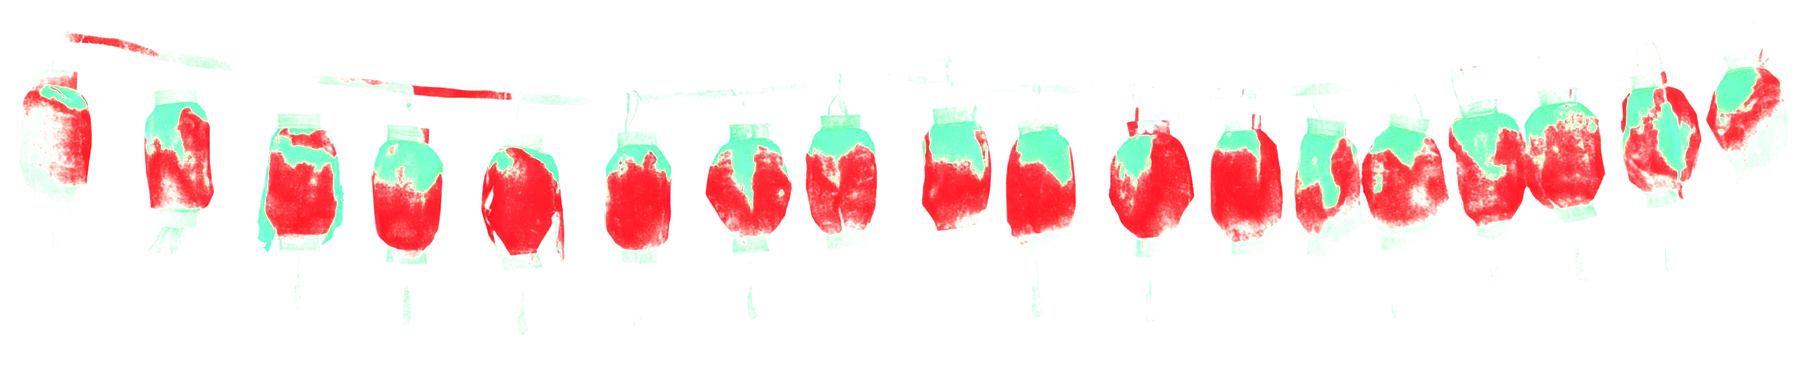
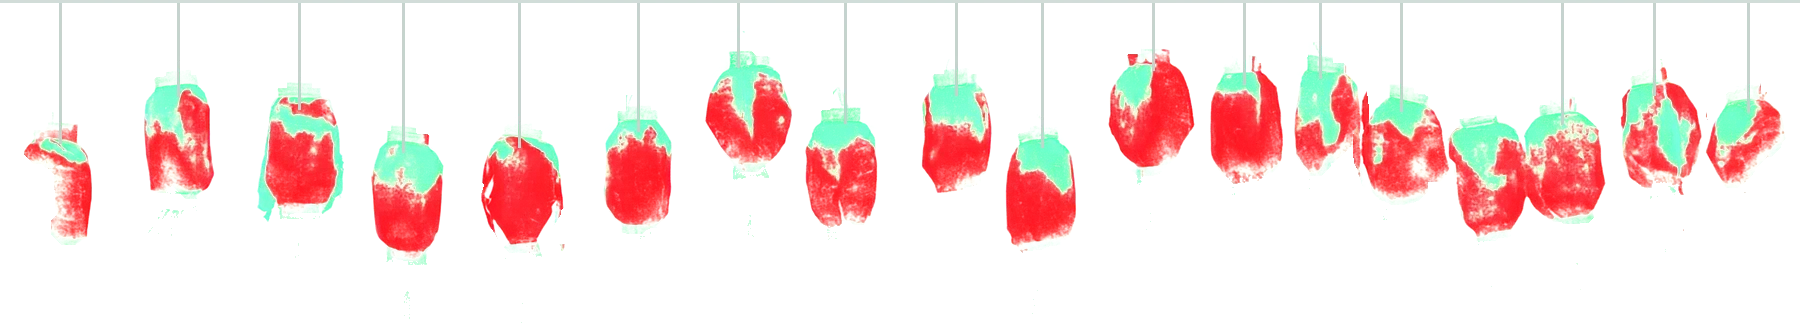
第四轮：时间到弹窗与封锁、大屏背景统一、默认深色、手机大屏简化、无常面具连线、灯笼重做挂线
Claude-Session: https://claude.ai/code/session_01J2BCPxYtnCxc7S6bwFav1H

diff --git a/web/public/app.js b/web/public/app.js
@@ -3,7 +3,7 @@
 // for the signed-in role, and sends actions. Rule helpers come from rules.js (same file the server runs).
 import * as R from './rules.js';
 const {size,ROOMS,SUITS,RATE,PER_TEAM,MIN_STAY,COIN_GOAL,FINAL_SCORE,FINAL_MSG,QUESTS,GATES,FEATURES,team,room,alive,inMarket,fmt,protectedLeft,esc,matches,targetLabel,
-  isFirst,indiv,lab,cands,whyNotEnter,gapOf,teamStatus,teamOf,no,rstate,rsvLeft,rsvOf,whyNotReserve,finalMiss,scavInfo,scavWhy,SCAV_CAP,SCAV_N,SCAV_WIN,SCAV_PTS,GAME_HINT,RESET_HINT,RSV,COIN_START}=R;
+  isFirst,indiv,lab,cands,whyNotEnter,gapOf,teamStatus,teamOf,no,rstate,timeUp,rsvLeft,rsvOf,whyNotReserve,finalMiss,scavInfo,scavWhy,SCAV_CAP,SCAV_N,SCAV_WIN,SCAV_PTS,GAME_HINT,RESET_HINT,RSV,COIN_START}=R;
 
 let S=null, ME=null, CLOCK=null, OFFSET=0;
 // Developer mode: DEVME is the real (read-only) sign-in, FULL the full state; ME/S are swapped to the chosen viewpoint.
@@ -372,7 +372,7 @@ function viewWuchang(){
     +(wait.length?'<div class="mlist">'+wait.map(p=>'<div class="mrow">'+meta(p)+'<button class="btn-main glow" data-a="pickup" data-p="'+p.id+'">接到了</button></div>').join('')+'</div>':'<div class="empty">现在没有人需要接。</div>')+'</section>';
   const right='<section class="mcol"><div class="shrow"><h2 class="sh">送入鬼市 / 确认</h2><span class="hint">已接到的人送去鬼市；孟婆已登记的人在这里确认</span></div>'
     +(go.length?'<div class="mlist">'+go.map(p=>'<div class="mrow ok">'+meta(p)+(p.chk&&!p.chk.ok?chkBit(p):'<button class="btn-main glow" data-a="checkin" data-p="'+p.id+'">送入鬼市</button>')+'</div>').join('')+'</div>':'<div class="empty">没有需要送入或确认的人。</div>')+'</section>';
-  return '<div class="page mkt eq wuchang-layout">'+left+'<div class="wc-mask" aria-hidden="true"><img src="img/mask-tongue.webp" alt=""></div>'+right+'</div>';
+  return '<div class="page mkt eq wuchang-layout">'+left+'<div class="wc-mask" aria-hidden="true"><div class="wc-in"><img src="img/mask-tongue.webp" alt=""></div></div>'+right+'</div>';
 }
 
 // ---------- 生死簿 ----------
@@ -635,7 +635,17 @@ function rsvDlg(){
   return '<div class="sheet"><div class="sheet-bg" data-a="rsvclose"></div><div class="sheet-card pn" role="dialog" aria-modal="true"><h3>现在不能预约 '+cardG(r)+'</h3>'+body
     +'<div class="btns"><button class="btn-main" data-a="rsvclose">知道了</button></div></div></div>';
 }
+// 时间到：全员（含工作人员、大屏）全屏提示；按总时长记住已点过，刷新不再重复弹。
+const tuKey=()=>'borderland.tu.'+((S&&S.dur)||7200);
+const tuSeen=()=>{try{return sessionStorage.getItem(tuKey())==='1';}catch{return !!ui.tuAck;}};
+function tuDlg(){
+  return '<div class="ovl" data-k="time"><div class="dlg" data-n="timeup" data-k="time" role="dialog" aria-modal="true" aria-labelledby="dt"><div class="new"><i></i>全场通知</div>'
+    +'<h3 id="dt">时间到</h3><div class="body">游戏总时间已用完。\n各房间暂停预约与入场；已经在房间里的队伍可以继续打完当前一局，结算和重置照常进行。</div>'
+    +'<div class="foot"><span class="cap">剩余时间</span><span class="cd over">0:00:00</span></div>'
+    +'<button data-a="tuack" data-modal="1">知道了</button></div></div>';
+}
 function modalHtml(){
+  if(ME&&S&&!entering&&R.timeUp()&&!tuSeen())return tuDlg();
   if(ME&&ME.role==='player'&&S&&ui.rsvInfo)return rsvDlg();
   if(!ME||ME.role!=='player'||!S)return '';
   const me=S.players.find(p=>p.id===ME.pid);
@@ -682,12 +692,12 @@ function setAmb(mode,tone){
     $('#amb').innerHTML=mode?'<ghost-ambience data-mode="'+mode+'"'+(mode==='login'?' data-len="0" data-err="0" data-ok="0"':'')+'></ghost-ambience>':'';}
   const g=$('#amb ghost-ambience');if(g&&tone&&g.dataset.tone!==tone)g.dataset.tone=tone;}
 const THEME_KEY=r=>'borderland.theme.'+r;
-// Three remembered choices per device: big screen (default dark), player page and staff pages (default light).
+// Three remembered choices per device (big screen, player page, staff pages); all default to dark on first open.
 const themeKey=()=>ui.tab==='board'?'screen':ME&&ME.role==='player'?'player':'staff';
 // 被淘汰、已被接到或在鬼市：整页红色提示，强制深色
 const inMarketNow=()=>{const p=ME&&ME.role==='player'&&S&&S.players.find(x=>x.id===ME.pid);return !!(p&&p.st!=='alive');};
 function themeFor(){const r=themeKey();if(ME&&(ME.role==='mengpo'||ME.role==='wuchang'))return 'dark';if(r==='player'&&inMarketNow())return 'dark';let v=null;try{v=localStorage.getItem(THEME_KEY(r));}catch{/* private mode */}
-  return v||(r==='screen'?'dark':'light');}
+  return v||'dark';}
 const themed=()=>true;
 
 function render(){
@@ -708,7 +718,7 @@ function render(){
   document.documentElement.dataset.theme=themed()?themeFor():'light';
   document.body.classList.toggle('board',ui.tab==='board');
   document.body.classList.toggle('inmk',ME.role==='player'&&inMarketNow());
-  document.body.classList.toggle('natscroll',ui.tab==='market'||(ui.tab==='player'&&ME&&ME.role==='player'));
+  document.body.classList.toggle('natscroll',ui.tab==='market'||ui.tab==='wuchang'||(ui.tab==='player'&&ME&&ME.role==='player'));
   // Staff and player pages: the big screen's full-window background on computers, and on phones in dark mode;
   // flames and eyes only show where no panel covers them (data-free). Phones in light mode keep the header strip.
   const userTab=['dealer','npc','market','wuchang','ctrl','player'].includes(ui.tab),tone=themeFor(),full=userTab&&(innerWidth>=720||tone==='dark');
@@ -734,6 +744,12 @@ function render(){
   R.use(S);S.t=nowT();$('#clk').textContent=fmt(S.t);
   morph($('#view'),ui.tab==='board'?viewBoard():ui.tab==='dealer'?viewDealer():ui.tab==='ctrl'?viewCtrl():ui.tab==='npc'?viewNpc():ui.tab==='market'?viewMarket():ui.tab==='wuchang'?viewWuchang():viewPlayer());
   fitStage();
+  { // 灯笼 / 面具的绳子接到页头那条线：算出它们离页头底边的距离（有标签栏时不上提，免得盖住标签）
+    const root=document.documentElement,hb=$('#top').getBoundingClientRect().bottom;
+    const lb=$('.lantern-band');if(lb){const cur=parseFloat(root.style.getPropertyValue('--lup'))||0,nat=lb.getBoundingClientRect().top+cur;
+      root.style.setProperty('--lup',(nav.hidden?Math.max(0,Math.round(nat-hb)):0)+'px');}
+    const wm=$('.wc-in');if(wm){const top=wm.getBoundingClientRect().top;root.style.setProperty('--wup',Math.max(0,Math.round(top-hb))+'px');}
+  }
   const had=!!$('#modal .dlg');morph($('#modal'),modalHtml());
   const mb=$('#modal button');if(mb&&!had)mb.focus();
   const dlg=$('#modal .dlg'),mk=dlg?dlg.dataset.n:null;
@@ -944,6 +960,7 @@ document.addEventListener('click',e=>{
   else if(a==='setcap'){send({type:'setcap',tid:b.dataset.t,pid:v});}
   else if(a==='setdur'){send({type:'setdur',secs:Math.round((+ui.admin.dur||0)*60)},()=>{ui.admin.dur='';});}
   else if(a==='assign'){send({type:'assign'});}
+  else if(a==='tuack'){ui.tuAck=true;try{sessionStorage.setItem(tuKey(),'1');}catch{/* ignore */}}
   else if(a==='ack'&&DEVME&&!ui.devOps){ui.devAck.add(b.dataset.n+':'+ME.pid);}
   else if(a==='ack'){const nid=+b.dataset.n,n=S&&S.notices.find(x=>x.id===nid);
     if(n&&ME.pid&&!n.acks[ME.pid])n.acks[ME.pid]=S.t; // show the next notice right away; the server confirms

diff --git a/web/public/style.css b/web/public/style.css
@@ -683,7 +683,8 @@ body.board .stage{background:transparent}
 @media (max-width:819px){
   .stage .bars{height:260px}
   .stage .bcol .b{--b0:28px;--b1:110px;align-items:flex-start}
-  .stage .bcol .su{display:grid;grid-template-columns:repeat(2,auto);justify-content:center;gap:0 6px;font-size:14px;line-height:1.25}
+  .stage .bcol .su{display:grid;grid-template-columns:repeat(2,auto);justify-content:center;gap:0 6px;font-size:18px;line-height:1.2}
+  .stage .bcol .su span{opacity:.28}.stage .bcol .su span.got{opacity:1}
 }
 .selchips{display:flex;flex-wrap:wrap;gap:6px;margin-top:8px}
 .selchip{display:inline-flex;align-items:center;gap:6px;min-height:36px;padding:0 10px;border:1.5px solid var(--line2);border-radius:999px;background:var(--card);font:700 14px var(--mono);color:var(--ink)}
@@ -1034,52 +1035,45 @@ body.inmk::after{content:"";position:fixed;inset:0;pointer-events:none;z-index:6
 
 /* ===== 2026-10-05 第三轮 ===== */
 /* 灯笼：缩小，居中整条；手机从最左边开始截取（不截中间）；底部不再黑色渐隐，流苏完整 */
-.lantern-band{pointer-events:none;user-select:none;position:relative;display:flex;justify-content:center;width:100vw;margin:0 0 8px calc(50% - 50vw);overflow:hidden}
-.lantern-band img{flex:none;display:block;width:clamp(760px,62vw,1000px);height:auto;max-width:none;transform-origin:50% 0;animation:lsway 7s ease-in-out infinite alternate;
+.lantern-band{pointer-events:none;user-select:none;position:relative;display:flex;justify-content:center;width:100vw;margin:calc(-1*var(--lup,0px)) 0 8px calc(50% - 50vw);overflow:hidden}
+.lantern-band img{flex:none;display:block;width:clamp(900px,78vw,1400px);height:auto;max-width:none;transform-origin:50% 0;animation:lsway 7s ease-in-out infinite alternate;
   -webkit-mask-image:linear-gradient(to right,transparent,#000 7%,#000 93%,transparent);mask-image:linear-gradient(to right,transparent,#000 7%,#000 93%,transparent)}
 .lantern-band .lt-d{display:none}
 :root[data-theme="dark"] .lantern-band .lt-l{display:none}
 :root[data-theme="dark"] .lantern-band .lt-d{display:block}
-@keyframes lsway{from{transform:rotate(-.4deg)}to{transform:rotate(.4deg)}}
+@keyframes lsway{from{transform:rotate(-.25deg)}to{transform:rotate(.25deg)}}
 @media (prefers-reduced-motion:reduce){.lantern-band img{animation:none}}
-@media (max-width:719px){.lantern-band{justify-content:flex-start;height:150px}.lantern-band img{width:250vw;margin-top:-26px;-webkit-mask-image:none;mask-image:none}}
+@media (max-width:719px){.lantern-band{justify-content:flex-start;height:190px}.lantern-band img{width:300vw;-webkit-mask-image:none;mask-image:none}}
 
 /* 大屏排名柱：顶边只留很轻的起伏；纸纹用上传的纸 */
 .stage .bcol .b{border-radius:0;min-height:46px;background-image:url(img/paper.webp);background-size:cover;background-blend-mode:multiply;
   clip-path:polygon(0 3px,25% 0,50% 3px,75% 1px,100% 3px,100% 100%,0 100%)}
 .xiang .stick{background-image:url(img/paper.webp);background-size:cover;background-blend-mode:multiply;background-color:#4f7268;border-radius:2px}
 
-/* 黑白无常：中间大面具，左右各一栏 */
+/* 黑白无常：中间大面具（绳子向上接到页头那条线），左右各一栏 */
 .wc-mask{pointer-events:none;user-select:none;display:flex;justify-content:center;align-items:flex-start}
-.wc-mask img{display:block;width:100%;max-width:560px;height:auto}
-:root .wuchang-layout{grid-template-columns:minmax(0,1fr) minmax(300px,.95fr) minmax(0,1fr);gap:24px;align-items:start}
-@media (max-width:959px){:root .wuchang-layout{grid-template-columns:minmax(0,1fr) minmax(200px,.7fr) minmax(0,1fr);gap:12px}}
-@media (max-width:719px){:root .wuchang-layout{grid-template-columns:minmax(0,1fr)}.wc-mask{grid-row:1}.wc-mask img{max-width:70vw}}
-
-/* 玩家本队页：终极任务进度 */
-.fin3{display:flex;flex-direction:column;gap:12px;margin-bottom:12px}
-.fhd{display:flex;align-items:center;justify-content:space-between;gap:12px;flex-wrap:wrap;padding:14px 16px;border:1px solid var(--line);border-radius:14px;background:var(--panel)}
-.fhd .ft{display:flex;align-items:baseline;gap:12px}
-.fhd .fn{font:800 40px var(--mono);color:var(--accent);line-height:1}
-.fhd .fn i{font-style:normal;font-size:20px;color:var(--sub)}
-.fhd .fs{font-size:15px;font-weight:700;color:var(--ink);flex:1 1 200px;text-align:right}
-.fcs{display:grid;grid-template-columns:repeat(3,minmax(0,1fr));gap:10px}
-.fc{border:1.5px dashed var(--line2);border-radius:14px;padding:14px;display:flex;flex-direction:column;gap:10px;min-width:0;background:var(--panel)}
-.fc.ok{border-style:solid;border-color:var(--accent);background:var(--cb)}
-.fc .fh{display:flex;justify-content:space-between;align-items:center;gap:8px}
-.fc .fh b{font-size:15px;font-weight:900}
-.fc .fk{font-size:12px;font-weight:800;color:var(--sub);white-space:nowrap}
-.fc.ok .fk{color:var(--accent)}
-.fc .fx{font-size:14px;font-weight:800;color:var(--sub)}
-.fc.ok .fx{color:var(--accent)}
-.fc .fscore{font-size:34px;font-weight:800;line-height:1.1;color:var(--ink)}
-.fc.ok .fscore{color:var(--accent)}
-.fc .suits4{gap:6px}
-.fc .s4{padding:5px 10px}
-.fc .dt{width:18px;height:18px}
-@media (max-width:719px){.fcs{grid-template-columns:minmax(0,1fr)}.fhd .fs{text-align:left}}
+.wc-in{position:relative;width:min(100%,calc((100vh - 90px)*.754))}
+.wc-in img{display:block;width:100%;height:auto}
+.wc-in::before,.wc-in::after{content:"";position:absolute;bottom:100%;width:2px;height:var(--wup,0px);background:linear-gradient(rgba(160,180,175,.6),rgba(160,180,175,.45))}
+.wc-in::before{left:30.3%}.wc-in::after{left:70.3%}
+:root .wuchang-layout{grid-template-columns:minmax(0,.8fr) minmax(0,1.3fr) minmax(0,.8fr);gap:24px;align-items:start}
+@media (max-width:959px){:root .wuchang-layout{grid-template-columns:minmax(0,1fr) minmax(0,1fr) minmax(0,1fr);gap:12px}}
+@media (max-width:719px){:root .wuchang-layout{grid-template-columns:minmax(0,1fr)}.wc-mask{grid-row:1}.wc-in{width:min(70vw,100%)}}
 
 /* 登录页永不出现滚动条（盖章放大、手机浏览器栏都不会撑出） */
 html:has(body.login){overflow:hidden}
 body.login{overflow:hidden}
 .lg.sealing>:not(.okv){opacity:0;transition:opacity .25s}
+
+/* 时间到全屏通知 */
+:root[data-theme] .ovl[data-k="time"]{--overlay:#1a0d2b;--overlay-ink:#f3e9ff;--accent:#ffcf6b;--accent-ink:#2b1a00;background:radial-gradient(120% 90% at 50% 0%,#3b1c5e 0%,#1a0d2b 55%,#0b0614 100%)}
+:root[data-theme] .ovl[data-k="time"] .dlg h3{color:#ffcf6b;font-size:clamp(64px,22vw,110px)}
+:root[data-theme] .ovl[data-k="time"] .dlg .new i{background:#ffcf6b}
+/* 手机上的大屏：排名只留队名 + 柱子 + 花色；房间卡字号与玩家页房间卡一致 */
+@media (max-width:819px){
+  .stage .bcol .nm .tsq,.stage .bcol .al,.stage .xiang{display:none}
+  .stage .bcol .nm{border-top-width:2px}
+  .stage .room .rs,.stage .room .idle{font-size:13px}
+  .stage .room .rtm{font-size:12px}
+  .stage .room .on{font-size:13px}
+}

diff --git a/shared/rules.js b/shared/rules.js
@@ -70,6 +70,8 @@ const rsvLeft=r=>r.st==='rsv'?Math.max(0,RSV-(S.t-r.at)):0;
 function sweep(){S.rooms.forEach(r=>{if(r.st==='rsv'&&S.t-r.at>=RSV){log(team(r.rt).name+' 预约 '+room(r.id).card+' 已过期','');r.st='open';r.rt=null;}});}
 const rsvOf=tid=>S.rooms.find(r=>rstate(r)==='rsv'&&r.rt===tid);
 const gated=()=>!!S.gp;
+// 总时间用完（S.t 由服务器在每次操作前设好）：暂停预约与入场，已在房间里的队伍照常打完、结算、重置。
+const timeUp=()=>S.t>=(S.dur||DUR0);
 
 function matches(n,p){
   switch(n.target){case 'all':return true;case 'team':return n.ids.includes(p.team);case 'player':return n.ids.includes(p.id);
@@ -189,6 +191,7 @@ function whyNotReserve(tid,rid){
   const t=team(tid),r=S.rooms.find(x=>x.id===rid),st=rstate(r);
   if(t.final)return '已进入终极任务';
   if(gated())return '鬼门开期间暂停预约';
+  if(timeUp())return '时间到，暂停预约';
   if(t.inRoom)return '正在 '+room(t.inRoom).card;
   const mine=rsvOf(tid);if(mine&&mine.id!==rid)return '已预约 '+room(mine.id).card+'，先取消';
   if(st==='rsv'&&r.rt!==tid)return '已被'+team(r.rt).name+'预约';
@@ -211,6 +214,7 @@ function whyNotEnter(tid,rid){
   const t=team(tid),r=S.rooms.find(x=>x.id===rid),st=rstate(r);
   if(t.final)return '已进入终极任务';
   if(gated())return '鬼门开期间暂停入场';
+  if(timeUp())return '时间到，暂停入场';
   if(t.inRoom)return '正在 '+room(t.inRoom).card;
   if(st==='play')return '游戏中';
   if(st==='reset')return '重置中';
@@ -447,4 +451,4 @@ export function viewFor(state,me){
     teams:state.teams.map(t=>p&&t.id===p.team?t:{...t,skills:[],hist:[]})};
 }
 
-export {needsReset,rstate,rsvLeft,rsvOf,whyNotReserve,reserve,cancelRsv,resetDone,gateReward,gateEnd,scavInfo,scavWhy,finalMiss,RSV,GAME_HINT,RESET_HINT,SCAV_PTS,SCAV_WIN,SCAV_N,SCAV_CAP,COIN_START,CARRY_MAX,DUR0,size,COIN_GOAL,FEATURES,FINAL_MSG,FINAL_SCORE,MIN_STAY,PER_TEAM,PROTECT,QUESTS,GATES,RATE,ROOMS,ROLE_LABEL,SHOP0,SUITS,TEAMS,ack,addCard,alive,buyCard,cands,donate,eliminate,enterRoom,esc,finishRoom,fmt,gapOf,hook,inMarket,indiv,init,isBcast,isFirst,kindLabel,lab,log,markDone,matches,no,ok,protectedLeft,publish,pushNotice,revive,revokeNotice,rewardTxt,room,seed,setScore,targetLabel,tcol,team,teamOf,teamStatus,unmarkDone,useCard,whyNotEnter};
+export {timeUp,needsReset,rstate,rsvLeft,rsvOf,whyNotReserve,reserve,cancelRsv,resetDone,gateReward,gateEnd,scavInfo,scavWhy,finalMiss,RSV,GAME_HINT,RESET_HINT,SCAV_PTS,SCAV_WIN,SCAV_N,SCAV_CAP,COIN_START,CARRY_MAX,DUR0,size,COIN_GOAL,FEATURES,FINAL_MSG,FINAL_SCORE,MIN_STAY,PER_TEAM,PROTECT,QUESTS,GATES,RATE,ROOMS,ROLE_LABEL,SHOP0,SUITS,TEAMS,ack,addCard,alive,buyCard,cands,donate,eliminate,enterRoom,esc,finishRoom,fmt,gapOf,hook,inMarket,indiv,init,isBcast,isFirst,kindLabel,lab,log,markDone,matches,no,ok,protectedLeft,publish,pushNotice,revive,revokeNotice,rewardTxt,room,seed,setScore,targetLabel,tcol,team,teamOf,teamStatus,unmarkDone,useCard,whyNotEnter};

diff --git a/web/public/paper.css b/web/public/paper.css
@@ -31,7 +31,6 @@
 
 
 body{background-image:var(--grain),var(--tex,none);background-size:cover,auto;background-repeat:no-repeat,no-repeat;background-attachment:fixed,scroll;background-blend-mode:multiply,normal}
-body.board,body.screen{background-image:var(--tex,none)}
 /* 大面板只加一层很淡的纸纹，不改形状 */
 .pn:not(.dash),.hero,.tcard,.mate,.note,.mini,.room,.rt,.fc,.fhd{background-image:var(--grain);background-size:cover;background-repeat:no-repeat;background-blend-mode:multiply}
 .stage .room,.stage .rt{background-image:none}

diff --git a/CLAUDE.md b/CLAUDE.md
@@ -225,3 +225,12 @@ npm run dev:pages                             # 正式部署的路径（Pages+Wo
 - 登录页永不出现滚动条（`html:has(body.login)` 与 `body.login` 均 `overflow:hidden`；手机登录页不再整页滚动，娃娃下半身被裁）。盖章放大曾短暂撑出滚动条，`.okv` 加了 `overflow:hidden`。
 - 盖章图 `img/seal-paper.webp` 改成真透明（黑→alpha），去掉 `mix-blend-mode`；盖章时 `.lg.sealing` 把表单淡出，不再有黑底矩形。盖章停留 2.6→4.8 秒。
 - `login()` 在 `localStart()/connect()` 之前先置 `entering=true`：本地展示模式会同步渲染，之前会在盖章出现前就切走页面。
+
+## 7.11 第四轮（2026-10-05 晚）
+
+- **大屏背景 = 工作人员页背景**（删了 paper.css 里 `body.board/.screen` 的特例）：深色黑底无纹理，浅色纸纹。**所有页面首次打开默认深色**（`themeFor` 默认 `dark`，已存过的选择不变）。
+- **手机大屏**：排名只显示队名（去队伍图标、「存活」、燃香进度条），花色 18px；房间卡字号与玩家页一致（`.rs/.idle/.on` 13px）。
+- **时间到**（`R.timeUp()` = `S.t >= S.dur`）：`whyNotReserve`/`whyNotEnter` 返回「时间到，暂停预约/入场」；已在房间里的队伍照常结算、重置。全员（含工作人员、大屏）弹全屏「时间到」（`tuDlg`，`data-k="time"`，点「知道了」后 sessionStorage 按总时长记住）。总控把总时长调大则不再触发。
+- **黑白无常页**：面具放大（中栏 1.3fr，高度随视口），上方两根绳子用 `.wc-in::before/::after` 向上画到页头那条线（`--wup` 由 `render()` 末尾计算）；页面改用整页滚动（`natscroll`）。
+- **鬼市灯笼**：`lantern-dark/light.webp` 重做：每盏灯笼单独抠出，挂在最上面一条直线上，垂直细绳长短不一；整条放大（`clamp(900px,78vw,1400px)`，手机 300vw 从最左截取）；无标签栏的角色（孟婆、玩家在鬼市）整条上提，直接挂在页头那条线下（`--lup`）。总控有标签栏时不上提，免得盖住标签。
+- 坑：改 style.css 时不要用「截断后重写」的脚本（这次丢过末尾追加的块，已补回）。
